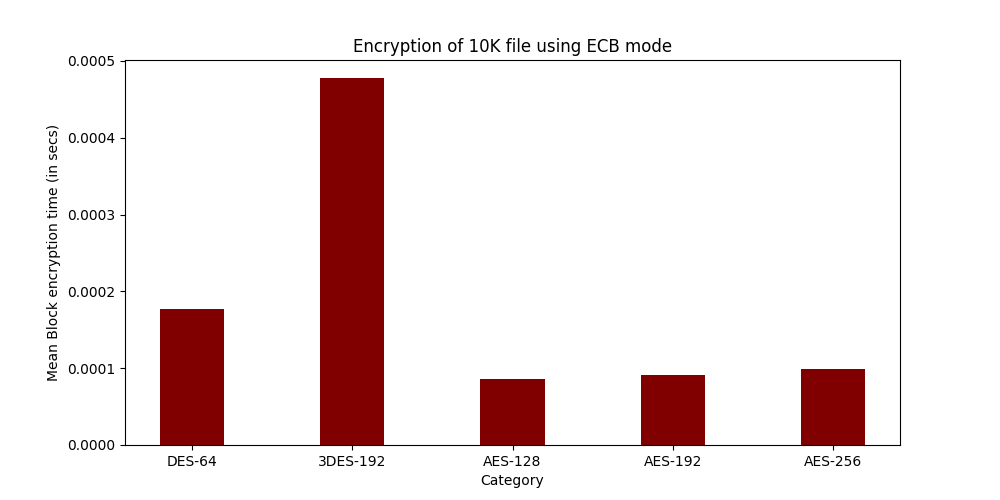
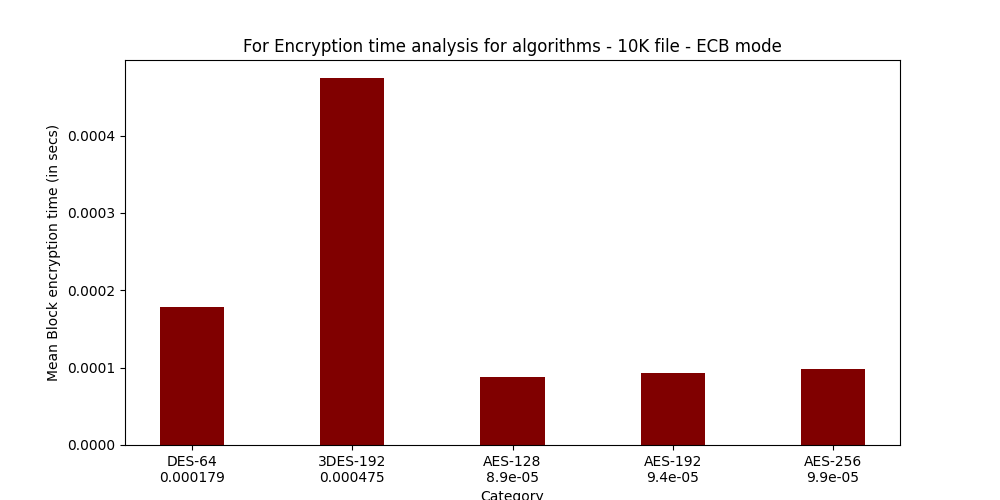
Added some new plots - For Decryption time analysis for algorithms - For Mode time analysis - For file size time analysis

diff --git a/SymmetricKeyCryptography/code/bulkResult.py b/SymmetricKeyCryptography/code/bulkResult.py
@@ -1,4 +1,4 @@
-import os, csv
+import os, csv, math
 import pandas as pd
 import matplotlib.pyplot as plt
 
@@ -69,6 +69,7 @@ def generateBulkResult():
                             )
                             os.system(cmd)
 
+
 def refineEncEcb10K(df):
     df1 = df[df["operation"] == "enc"]
     df1 = df1[df1["mode"] == "ecb"]
@@ -76,36 +77,107 @@ def refineEncEcb10K(df):
 
     lst = []
     lst.append(df1[df1["algorithm"] == "des"]["exec_time"].mean())
-    lst.append(df1[df1["algorithm"] == "3des"]["exec_time"].mean())\
-
+    lst.append(df1[df1["algorithm"] == "3des"]["exec_time"].mean())
     df1 = df1[df1["algorithm"] == "aes"]
     lst.append(df1[df1["keysize"] == 128]["exec_time"].mean())
     lst.append(df1[df1["keysize"] == 192]["exec_time"].mean())
     lst.append(df1[df1["keysize"] == 256]["exec_time"].mean())
 
-    category = ['DES-64', '3DES-192', 'AES-128', 'AES-192', 'AES-256']
+    category = ["DES-64", "3DES-192", "AES-128", "AES-192", "AES-256"]
 
-    d = {'category' : category, 'mean': lst}
+    d = {"category": category, "mean": lst}
     df_enc_ecb_10K = pd.DataFrame(data=d)
 
     return df_enc_ecb_10K
 
-def generateGraph(df_enc_ecb_10K):
-    fig = plt.figure(figsize = (10, 5))
-    
+
+def refineDecEcb10K(df):
+    df1 = df[df["operation"] == "dec"]
+    df1 = df1[df1["mode"] == "ecb"]
+    df1 = df1[df1["filesize"] == "10K"]
+
+    lst = []
+    lst.append(df1[df1["algorithm"] == "des"]["exec_time"].mean())
+    lst.append(df1[df1["algorithm"] == "3des"]["exec_time"].mean())
+    df1 = df1[df1["algorithm"] == "aes"]
+    lst.append(df1[df1["keysize"] == 128]["exec_time"].mean())
+    lst.append(df1[df1["keysize"] == 192]["exec_time"].mean())
+    lst.append(df1[df1["keysize"] == 256]["exec_time"].mean())
+
+    category = ["DES-64", "3DES-192", "AES-128", "AES-192", "AES-256"]
+
+    d = {"category": category, "mean": lst}
+    df_dec_ecb_10K = pd.DataFrame(data=d)
+
+    return df_dec_ecb_10K
+
+
+def refineDes10K64(df):
+    df1 = df[df["algorithm"] == "des"]
+    df1 = df1[df1["filesize"] == "10K"]
+
+    lst = []
+
+    df2 = df1[df1["operation"] == "enc"]
+    lst.append(df2[df2["mode"] == "ecb"]["exec_time"].mean())
+    lst.append(df2[df2["mode"] == "cbc"]["exec_time"].mean())
+    df2 = df1[df1["operation"] == "dec"]
+    lst.append(df2[df2["mode"] == "ecb"]["exec_time"].mean())
+    lst.append(df2[df2["mode"] == "cbc"]["exec_time"].mean())
+
+    category = ["ENC-ECB", "ENC-CBC", "DEC-ECB", "DEC-CBC"]
+
+    d = {"category": category, "mean": lst}
+    df_des_64_10K = pd.DataFrame(data=d)
+
+    return df_des_64_10K
+
+
+def refineDes64(df):
+    df1 = df[df["algorithm"] == "des"]
+
+    lst = []
+
+    df2 = df1[df1["operation"] == "enc"]
+    lst.append(df2[df2["filesize"] == "10K"]["exec_time"].mean())
+    lst.append(df2[df2["filesize"] == "1M"]["exec_time"].mean())
+
+    df2 = df1[df1["operation"] == "dec"]
+    lst.append(df2[df2["filesize"] == "10K"]["exec_time"].mean())
+    lst.append(df2[df2["filesize"] == "1M"]["exec_time"].mean())
+
+    category = ["ENC-10K", "ENC-1M", "DEC-10K", "DEC-1M"]
+
+    d = {"category": category, "mean": lst}
+    df_des_64 = pd.DataFrame(data=d)
+
+    return df_des_64
+
+
+def generateGraph(df, ylabel, title, img):
+    fig = plt.figure(figsize=(10, 5))
+
+    lst = []
+    for i in range(df.shape[0]):
+        lst.append(
+            df.loc[i, "category"]
+            + "\n"
+            + str((math.ceil(df.loc[i, "mean"] * math.pow(10, 6)) / math.pow(10, 6)))
+        )
+
     # creating the bar plot
-    plt.bar(df_enc_ecb_10K['category'], df_enc_ecb_10K['mean'], color ='maroon',
-            width = 0.4)
-    
+    plt.bar(lst, df["mean"], color="maroon", width=0.4)
+
     plt.xlabel("Category")
-    plt.ylabel("Mean Block encryption time (in secs)")
-    plt.title("Encryption of 10K file using ECB mode")
+    plt.ylabel(ylabel)
+    plt.title(title)
 
     if not os.path.exists("testcases_output/plots"):
         # Create a new directory because it does not exist
         os.makedirs("testcases_output/plots")
 
-    plt.savefig('testcases_output/plots/enc_ecb_10K.png')
+    plt.savefig("testcases_output/plots/" + img)
+
 
 # MAIN FUNCTION
 def main():
@@ -115,12 +187,11 @@ def main():
         # Create a new directory because it does not exist
         os.makedirs("testcases_output/demo")
 
-
     # Generate bulk results
     generateBulkResult()
 
     # Read csv file data in dataframe
-    df = pd.read_csv('records.csv')
+    df = pd.read_csv("records.csv")
 
     # Add new column - filesize
     for ind in range(df.shape[0]):
@@ -131,8 +202,39 @@ def main():
 
     # Generate graph for different algorithms for - Encryption of 10K file using ECB mode
     df_enc_ecb_10K = refineEncEcb10K(df)
-    generateGraph(df_enc_ecb_10K)
+    generateGraph(
+        df_enc_ecb_10K,
+        "Mean Block encryption time (in secs)",
+        "For Encryption time analysis for algorithms - 10K file - ECB mode",
+        "enc_ecb_10K.png",
+    )
 
+    # Generate graph for different algorithms for - Decryption of 10K file using ECB mode
+    df_dec_ecb_10K = refineDecEcb10K(df)
+    generateGraph(
+        df_dec_ecb_10K,
+        "Mean Block decryption time (in secs)",
+        "For Decryption time analysis for algorithms - 10K file - ECB mode",
+        "dec_ecb_10K.png",
+    )
+
+    # Generate graph for different algorithms for - Decryption of 10K file using ECB mode
+    df_des_64_10K = refineDes10K64(df)
+    generateGraph(
+        df_des_64_10K,
+        "Mean Block time (in secs)",
+        "For Mode time analysis - DES - 64b keysize - 10K file",
+        "des_64_10K.png",
+    )
+
+    # Generate graph for different algorithms for - Decryption of 10K file using ECB mode
+    df_des_64 = refineDes64(df)
+    generateGraph(
+        df_des_64,
+        "Mean Block time (in secs)",
+        "For file size time analysis - DES - 64b keysize",
+        "des_64.png",
+    )
 
     # with open('records.csv', newline='') as csvfile:
     #     reader = csv.DictReader(csvfile)
